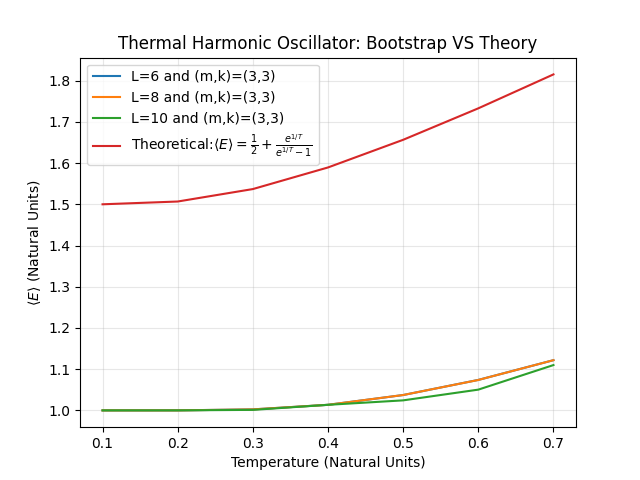
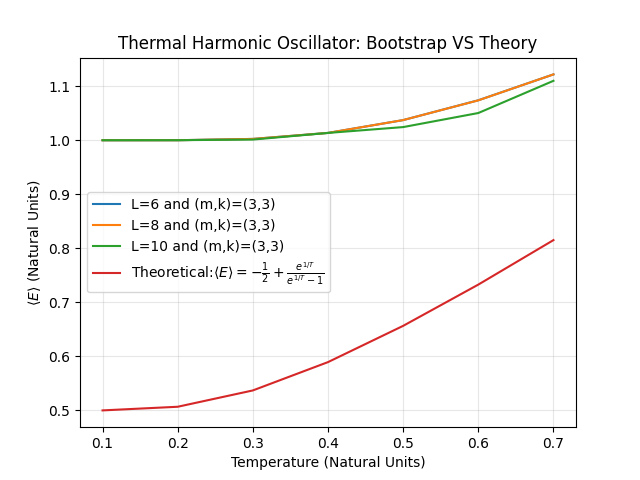
Corrected an error with the theoretical plots

diff --git a/thermal_anharmonic/python_files/plotting.py b/thermal_anharmonic/python_files/plotting.py
@@ -26,8 +26,8 @@ for L in [6,8,10]:
 
 
 def theoretical_curve(T):
-    return 1 / 2 + np.exp(1 / T) / (np.exp(1 / T) - 1)
-plt.plot(temperature_range, [theoretical_curve(beta) for beta in temperature_range],label=r"Theoretical:$\langle E \rangle=\frac{1}{2}+\frac{e^{1/T}}{e^{1/T}-1}$")
+    return - 1 / 2 + np.exp(1 / T) / (np.exp(1 / T) - 1)
+plt.plot(temperature_range, [theoretical_curve(beta) for beta in temperature_range],label=r"Theoretical:$\langle E \rangle=-\frac{1}{2}+\frac{e^{1/T}}{e^{1/T}-1}$")
 
 plt.title("Thermal Harmonic Oscillator: Bootstrap VS Theory")
 plt.xlabel("Temperature (Natural Units)")
